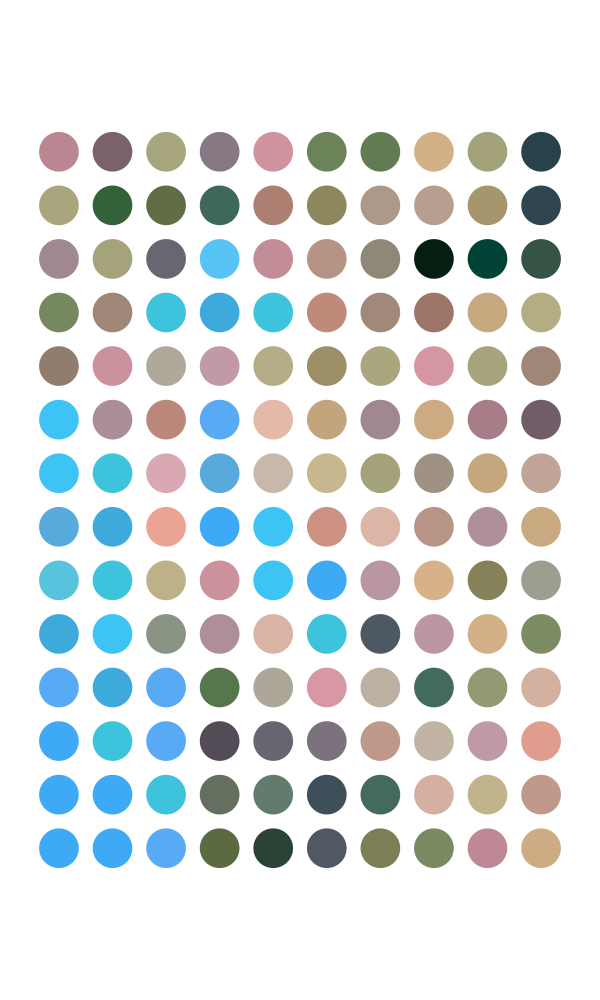
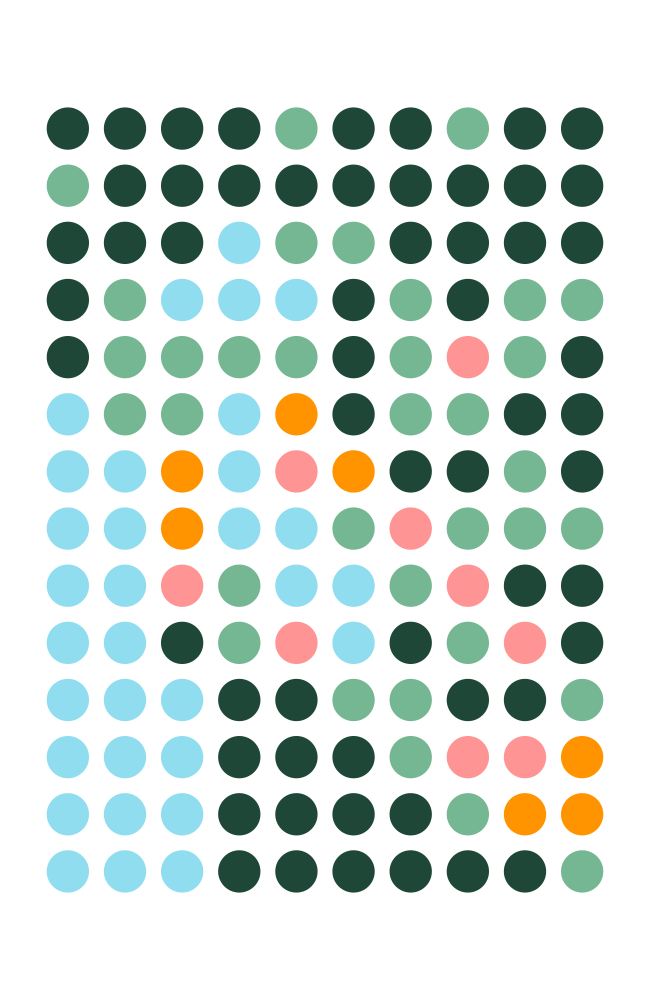
Determine color by quantile.

diff --git a/dotmatrix/visualization/visualization.py b/dotmatrix/visualization/visualization.py
@@ -1,7 +1,8 @@
 import cairo
+import numpy
 import random
 
-from dotmatrix.visualization.color import dot_color
+from dotmatrix.visualization.color import background_color, dot_color
 from dotmatrix.visualization.layout import Dimension, padding, dot_slot_size
 from dotmatrix.visualization.shapes import rectangle, circle
 from dotmatrix.populationdensity.dataset import load
@@ -19,7 +20,7 @@ def draw(config, dots):
         ctx,
         p0=(0, 0),
         p1=(config['width'], config['height']),
-        color=(1, 1, 1))
+        color=background_color(config))
 
     ctx = cairo.Context(surface)
     ctx.translate(
@@ -48,28 +49,48 @@ def draw_dots(ctx, config):
                 color=dot)
 
 
+def _allow_none(f):
+    def _f(v):
+        if v is None:
+            return v
+        else:
+            return f(v)
+    return _f
+
+
+def _flatten(xs):
+    return [x for xss in xs for x in xss]
+
+
 if __name__ == "__main__":
+    dark_green = (30, 71, 56)
+    green = (117, 183, 146)
+    hot_pink = (255, 148, 148)
+    orange = (255, 148, 0)
+
     config = {
         'dataset': {
             'filename': 'data/population_density.ascii',
             'size': (10, 14),
             'cache_directory': 'cache/',
-            # 'top_left_coordinate': (38.294140, -122.642074),
             'top_left_coordinate': (38.294140, -122.642074),
             'scale': 2,
         },
         'color': {
-            # 'start': (235, 64, 52),
-            # 'stop': (52, 100, 235),
-            'start': (30, 71, 56),
-            'stop': (242, 193, 178),
-            'none': (88, 195, 245),
+            'quantiles': _flatten([
+                [dark_green] * 28,
+                [green] * 15,
+                [hot_pink] * 4,
+                [orange] * 2,
+            ]),
+            'water': (144, 221, 240),
         },
         'draw': {
-            'width': 600,
+            'background_color': (255, 255, 255),
+            'width': 650,
             'height': 1000,
-            'padding-vertical': 0.125,
-            'padding-horizontal': 0.025,
+            'padding-vertical': 0.10,
+            'padding-horizontal': 0.04,
             'dot-spacing': 0.35,
         },
     }
@@ -80,8 +101,22 @@ if __name__ == "__main__":
         dataset.filter(lambda v: v is not None)
         .reduce(max))
 
+    num_quantiles = len(config['color']['quantiles']) - 1
+    dataset_list = [v for v in dataset.iterable() if v is not None]
+    quantiles = (
+        numpy.quantile(
+            dataset_list,
+            [
+                q / num_quantiles
+                for q in range(num_quantiles)]))
+
+    def find_quantile(v): return next(
+        (index for index, x in enumerate(quantiles) if v <= x), num_quantiles)
+
     dots = (
-        dataset.map(lambda v: dot_color(config['color'], v, max_value))
+        dataset
+        .map(lambda v: _allow_none(find_quantile)(v))
+        .map(lambda v: dot_color(config['color'], v, len(quantiles) - 1))
         .matrix())
 
     random.seed(1000)

diff --git a/dotmatrix/visualization/color.py b/dotmatrix/visualization/color.py
@@ -1,39 +1,44 @@
-import math
 import random
 
 
-def dot_color(config, value, max_value):
-    if value is None or value == 0:
-        return _color_noise(_normalize_rgb(config['none']), 0.2)
+def background_color(config):
+    return _normalize_rgb(config['background_color'])
 
-    scale = math.log(value) / math.log(max_value)
-    start = _normalize_rgb(config['start'])
-    stop = _normalize_rgb(config['stop'])
-    return _color_noise(_interpolate(start, stop, scale), 0.1)
+
+def dot_color(config, value, max_value):
+    if value is None:
+        return _color_noise(_normalize_rgb(config['water']), 0)
+
+    scale = value / max_value
+    quantiles = config['quantiles']
+    group = _group(scale, len(quantiles))
+    return _color_noise(_normalize_rgb(quantiles[group]), 0)
 
 
 def _normalize_rgb(color):
+    try:
+        alpha = color[3]
+    except IndexError:
+        alpha = 1
+
     return (
         color[0] / 255,
         color[1] / 255,
         color[2] / 255,
-    )
-
-
-def _interpolate(start, stop, scale):
-    return (
-        scale * stop[0] + (1 - scale) * start[0],
-        scale * stop[1] + (1 - scale) * start[1],
-        scale * stop[2] + (1 - scale) * start[2],
+        alpha
     )
 
 
 def _color_noise(color, effect):
     return (
-        _noise(color_channel, 0.1)
+        _noise(color_channel, effect)
         for color_channel in color
     )
 
 
 def _noise(value, effect):
     return (effect * random.randrange(-1, 1)) + value
+
+
+def _group(value, num_groups):
+    return min(int(value * num_groups), num_groups - 1)

diff --git a/dotmatrix/populationdensity/transform.py b/dotmatrix/populationdensity/transform.py
@@ -3,7 +3,7 @@ def transform(config, dataset):
     return (
         dataset
         .map_with_key(
-            lambda key, v: _neighbor_max(dataset, key, config['scale']))
+            lambda key, v: _neighbor_sum(dataset, key, config['scale']))
         .filter_by_key(lambda key: key in anchors))
 
 
@@ -20,6 +20,13 @@ def _anchors(config, dataset):
     )
 
 
+def _neighbor_sum(dataset, key, size):
+    return _sum([
+        dataset.get(neighbor_key)
+        for neighbor_key in _neighbor_keys(dataset, key, size)
+    ])
+
+
 def _neighbor_max(dataset, key, size):
     return _max([
         dataset.get(neighbor_key)
@@ -34,6 +41,13 @@ def _neighbor_keys(dataset, key, size):
         for x_index in range(size)
         for y_index in range(size)
     ]
+
+
+def _sum(iterable):
+    if not iterable or None in iterable:
+        return None
+    else:
+        return sum(iterable)
 
 
 def _max(iterable):

diff --git a/dotmatrix/visualization/shapes.py b/dotmatrix/visualization/shapes.py
@@ -2,12 +2,12 @@ import math
 
 
 def rectangle(ctx, p0, p1, color):
-    ctx.set_source_rgb(*color)
+    ctx.set_source_rgba(*color)
     ctx.rectangle(*p0, *p1)
     ctx.fill()
 
 
 def circle(ctx, x, y, r, color):
-    ctx.set_source_rgb(*color)
+    ctx.set_source_rgba(*color)
     ctx.arc(x, y, r, 0, 2 * math.pi)
     ctx.fill()
